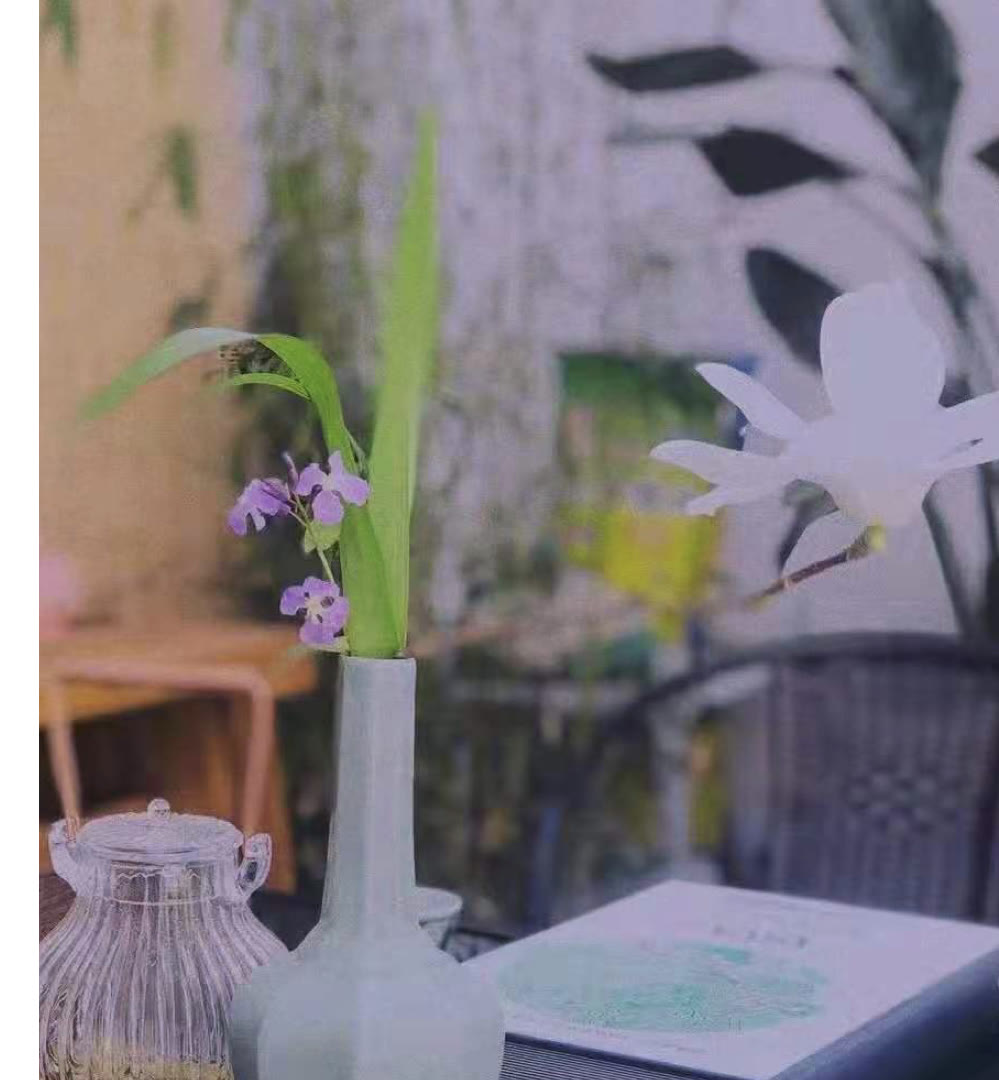
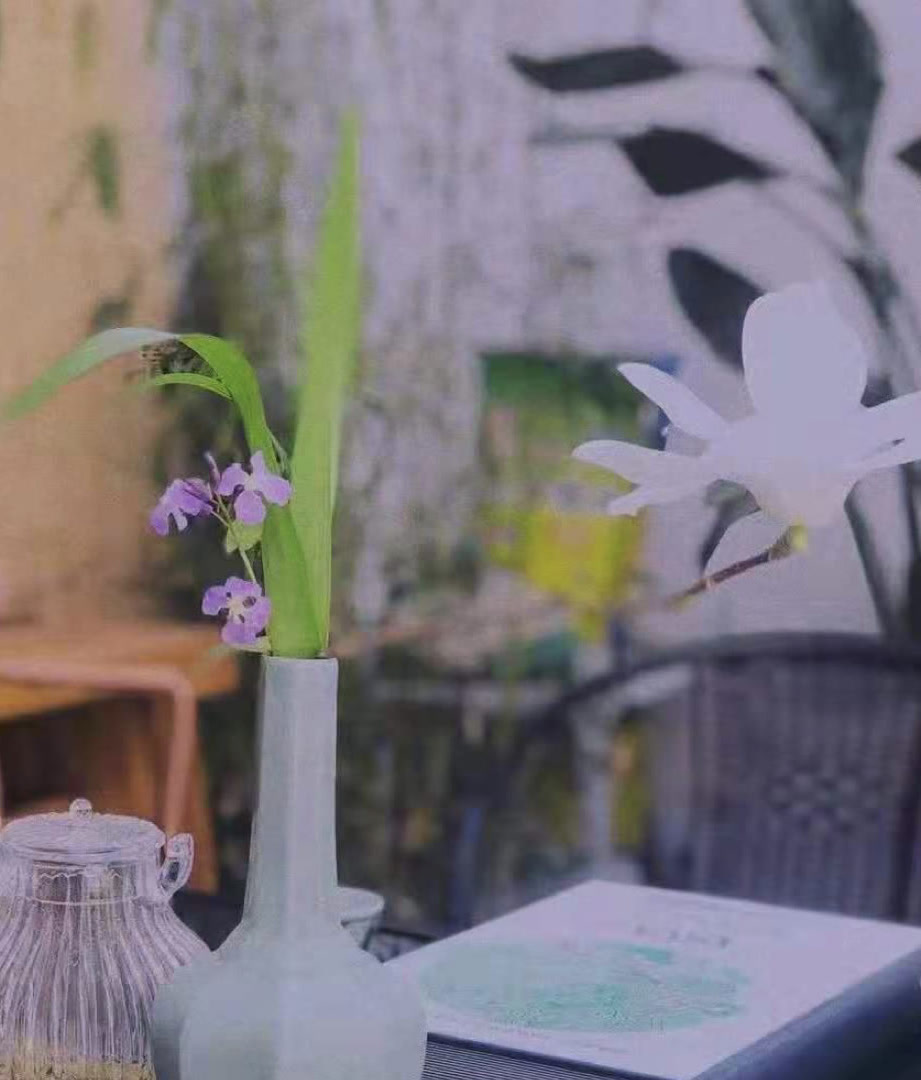
content: 镜像卡配图更新；花道裁掉左侧留白

diff --git a/index.html b/index.html
@@ -5,7 +5,7 @@
   <meta name="viewport" content="width=device-width, initial-scale=1, viewport-fit=cover" />
   <meta name="description" content="ASVA — Arts Save Venus Alive。融合东方美学 · 传统文化 · 艺术 · 超个人心理学咨询 · 个人和组织发展的生态型教育机构。点亮美好生活。" />
   <title>ASVA · 点亮美好生活</title>
-  <link rel="stylesheet" href="css/site.css?v=26" />
+  <link rel="stylesheet" href="css/site.css?v=27" />
 </head>
 <body>
   <a class="skip-link" href="#main">跳到主要内容</a>
@@ -219,7 +219,7 @@
             </ul>
           </div>
           <figure class="heritage-figure">
-            <img src="images/flower-way.jpg?v=26" alt="ASVA 自性花道空间与插花" width="999" height="1080" loading="lazy" />
+            <img src="images/flower-way.jpg?v=27" alt="ASVA 自性花道空间与插花" width="999" height="1080" loading="lazy" />
           </figure>
         </article>
 
@@ -277,7 +277,7 @@
           </div>
         </div>
         <figure class="service-visual">
-          <img src="images/mirror-cards.jpg" alt="ASVA 镜像卡牌介绍" width="1200" height="900" loading="lazy" />
+          <img src="images/mirror-cards.jpg?v=27" alt="ASVA 镜像卡牌介绍" width="1200" height="900" loading="lazy" />
           <figcaption>ASVA 东方领导力镜像卡牌 —— 原创工具，已获两项国家知识产权认证保护</figcaption>
         </figure>
         <div class="ip-note">
@@ -343,6 +343,6 @@
     </div>
   </footer>
 
-  <script src="js/site.js?v=26"></script>
+  <script src="js/site.js?v=27"></script>
 </body>
 </html>
